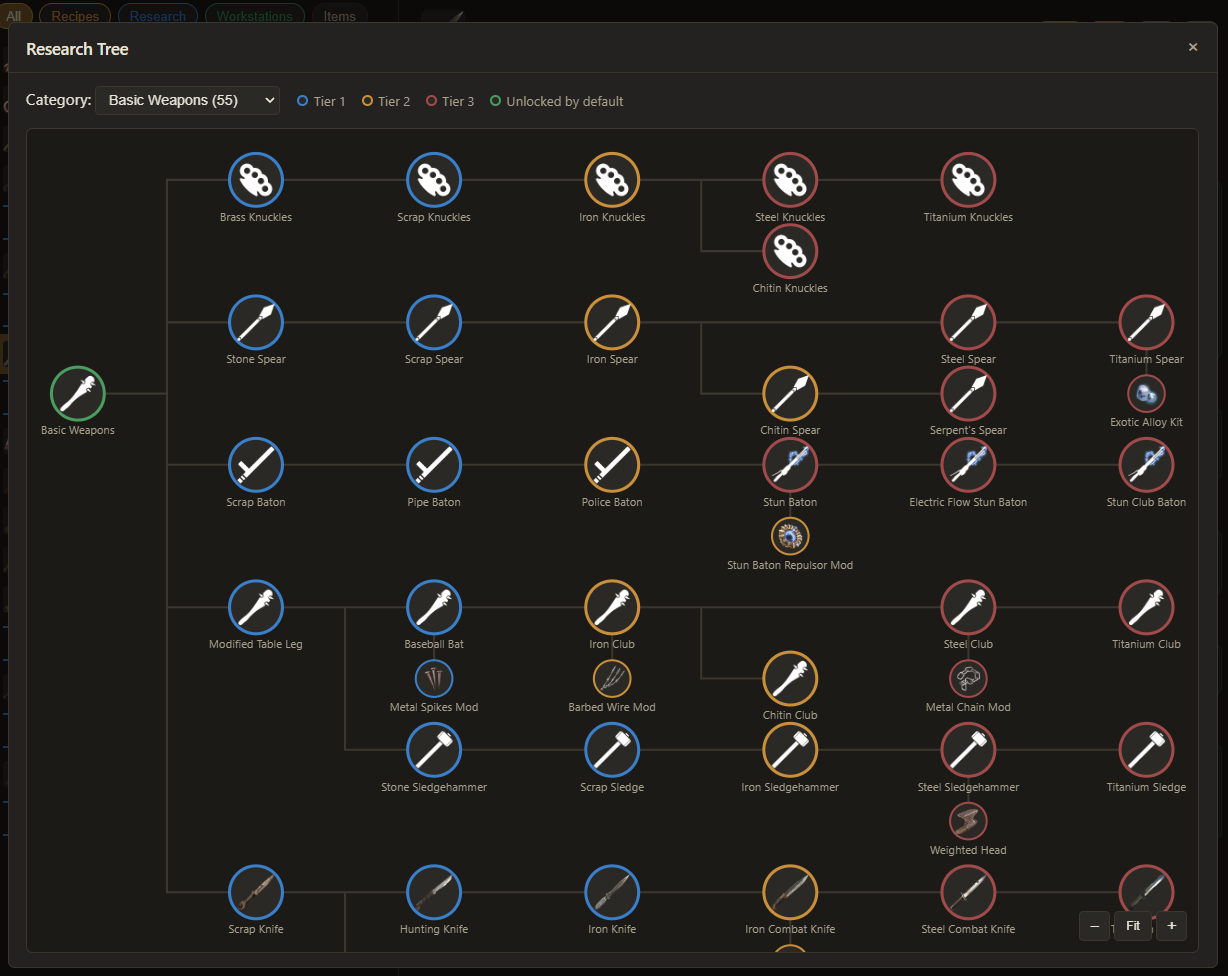
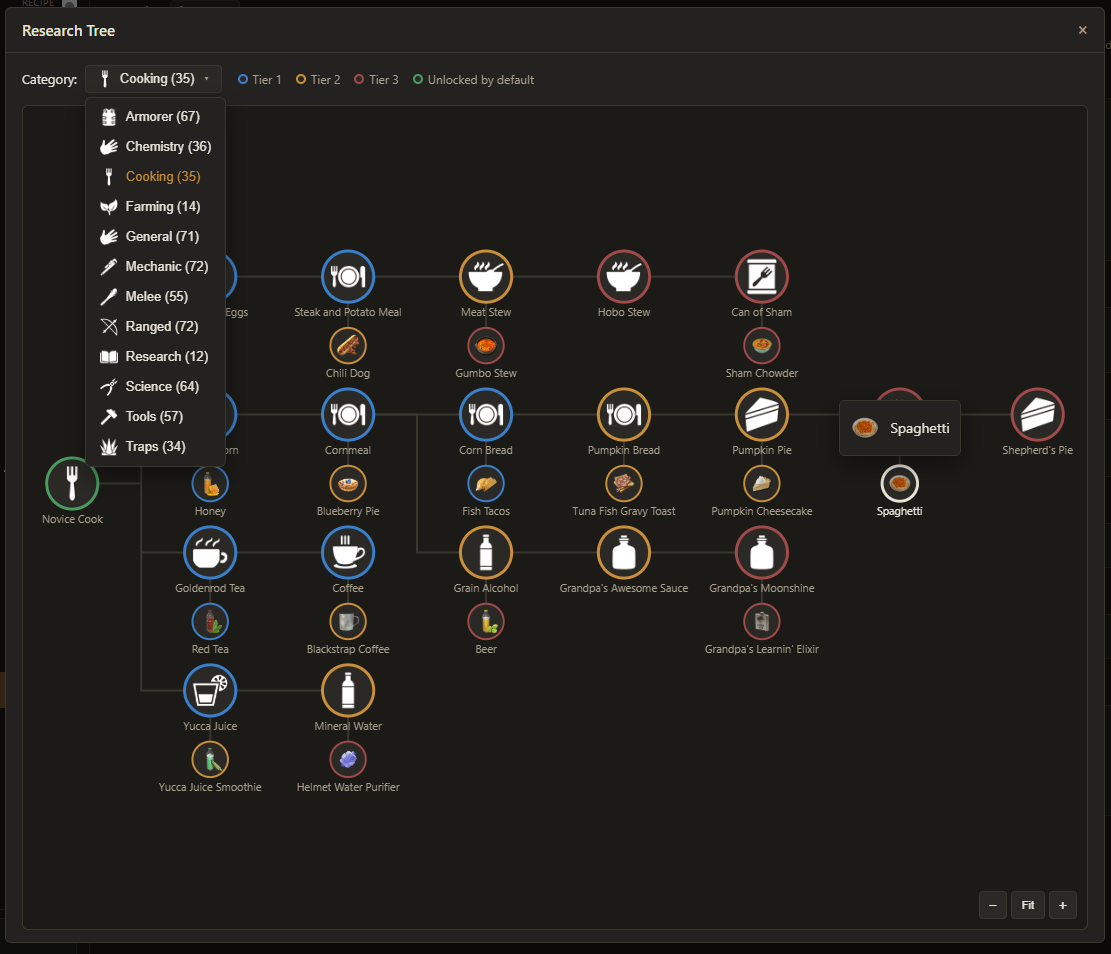
v1.1.0: Scraps Into, research Unlocks (list + hover), and resolved categories
Adds Scraps Into to every item's detail page -- the in-inventory "Scrap"
action, a mechanic distinct from the Recycler's Recycles Into just below
it, reverse-engineered from Material/Weight item properties and
materials.xml's forge_category (ported identically across both build
paths). The Research Tree's category picker is now a hand-built icon
dropdown instead of a native <select>, since a native <option> can't show
each category's own research symbol; it's also now sized to fit all of
the mod's current categories without a scrollbar.

A research page's info box now also lists every recipe it unlocks, laid
out in a second column next to its existing Category/Parent/Requires
facts -- covering both the common same-named-recipe case and any recipe
named explicitly via the node's own <unlocks> entries. The same Unlocks
list is now also available as a hover popup on every Research Tree node
(not just multi-unlock hubs), with larger icons so it reads at a glance.
Category itself now inherits from the tree's root when a node's own field
is empty (true for all but the 12 actual root nodes, so every leaf
previously just showed "-"), consistently on both the detail page and the
Research Tree picker, which now labels and sorts by this same resolved
category rather than the root node's own display name.

README rewritten to open with a bulleted feature list instead of one
dense paragraph, restructured around a "Which setup do I need?"
[…]

diff --git a/app/app.js b/app/app.js
@@ -46,6 +46,7 @@ window.ULModBuddyApp = (function () {
   const treeZoomInEl = $("#tree-zoom-in");
   const treeZoomOutEl = $("#tree-zoom-out");
   const treeZoomResetEl = $("#tree-zoom-reset");
+  const treeNodeTooltipEl = $("#tree-node-tooltip");
 
   // ---------------------------------------------------------------------
   // Meta line
@@ -452,6 +453,19 @@ window.ULModBuddyApp = (function () {
     return root;
   }
 
+  // Only each tree's root node carries its own `category` in the mod's data
+  // (e.g. "Mechanic" on Novice Mechanic) -- every descendant's own field is
+  // empty, so fall back to the root's via the same parent walk above. Shared
+  // by the research detail page and the Research Tree category picker so
+  // both show the same resolved value rather than the picker using the
+  // root's display NAME ("Novice Mechanic") while the detail page uses its
+  // CATEGORY ("Mechanic").
+  function researchCategoryOf(name) {
+    const node = data.research[name];
+    if (!node) return null;
+    return node.category || (data.research[researchRootOf(name)] || {}).category || null;
+  }
+
   const researchTreeGroups = new Map(); // root -> [research node, ...] (all tiers combined)
   for (const [name, node] of Object.entries(data.research)) {
     if (!node.pos) continue; // no coordinate to plot -- can't appear on any canvas
@@ -459,8 +473,12 @@ window.ULModBuddyApp = (function () {
     if (!researchTreeGroups.has(root)) researchTreeGroups.set(root, []);
     researchTreeGroups.get(root).push(node);
   }
+  // Sorted by the same resolved category text the picker displays (falling
+  // back to the root's own display name, same as researchCategoryOf's own
+  // fallback), not the root's display name -- otherwise the dropdown's
+  // order wouldn't match what it's showing.
   const researchCategories = [...researchTreeGroups.keys()].sort((a, b) =>
-    displayName(a).localeCompare(displayName(b))
+    (researchCategoryOf(a) || displayName(a)).localeCompare(researchCategoryOf(b) || displayName(b))
   );
 
   function tierOf(area) {
@@ -658,6 +676,7 @@ window.ULModBuddyApp = (function () {
   }
 
   function renderTreeCanvas() {
+    hideTreeNodeTooltip();
     treeCanvasInnerEl.innerHTML = renderResearchTreeSvg(treeState.root);
     const svg = treeCanvasInnerEl.querySelector("svg");
     treeNaturalWidth = svg ? parseFloat(svg.getAttribute("width")) || 0 : 0;
@@ -694,7 +713,7 @@ window.ULModBuddyApp = (function () {
   function selectTreeCategory(root) {
     treeState.root = root;
     treeCategoryBtnIconEl.innerHTML = treeCategoryIconHtml(root);
-    treeCategoryBtnLabelEl.textContent = `${displayName(root)} (${researchTreeGroups.get(root).length})`;
+    treeCategoryBtnLabelEl.textContent = `${researchCategoryOf(root) || displayName(root)} (${researchTreeGroups.get(root).length})`;
     for (const opt of treeCategoryMenuEl.children) {
       opt.setAttribute("aria-selected", String(opt.dataset.root === root));
     }
@@ -704,6 +723,7 @@ window.ULModBuddyApp = (function () {
   function hideTreeModal() {
     treeModalEl.hidden = true;
     closeTreeCategoryMenu();
+    hideTreeNodeTooltip();
   }
 
   function openTreeModal() {
@@ -713,7 +733,7 @@ window.ULModBuddyApp = (function () {
           (root) =>
             `<button type="button" class="icon-select-option" role="option" data-root="${root}">` +
             `${treeCategoryIconHtml(root)}` +
-            `<span>${displayName(root)} (${researchTreeGroups.get(root).length})</span></button>`
+            `<span>${researchCategoryOf(root) || displayName(root)} (${researchTreeGroups.get(root).length})</span></button>`
         )
         .join("");
       for (const opt of treeCategoryMenuEl.children) {
@@ -801,6 +821,7 @@ window.ULModBuddyApp = (function () {
     // buttons, since the browser would then fire their "click" at
     // tree-canvas-wrap instead of the button itself.
     if (e.target.closest(".tree-zoom-controls")) return;
+    hideTreeNodeTooltip();
     treePointerDownNode = e.target.closest(".tree-node");
     treeDragging = true;
     treeDragMoved = false;
@@ -835,6 +856,56 @@ window.ULModBuddyApp = (function () {
   treeCanvasWrapEl.addEventListener("pointercancel", () => {
     treeDragging = false;
     treeCanvasWrapEl.classList.remove("tree-dragging");
+  });
+
+  // Hover popup listing what a node unlocks -- every node gets one (not
+  // just multi-unlock hubs), reusing the same researchUnlockedRecipeNames()
+  // the detail page's own Unlocks list is built from, so both agree. A
+  // node with nothing to show (the rare pure-hub case) just never displays
+  // one rather than popping up an empty box.
+  function hideTreeNodeTooltip() {
+    treeNodeTooltipEl.hidden = true;
+  }
+
+  function showTreeNodeTooltip(nodeEl) {
+    const node = data.research[nodeEl.dataset.name];
+    const unlockedRecipes = node ? researchUnlockedRecipeNames(node) : [];
+    if (!unlockedRecipes.length) {
+      hideTreeNodeTooltip();
+      return;
+    }
+    // Larger than the usual .ing-icon rows this same markup pattern uses
+    // elsewhere (e.g. Unlocks on the research detail page) -- a hover
+    // popup is glanced at for a moment, not read closely, so the icons
+    // need to read at a glance too.
+    treeNodeTooltipEl.innerHTML = unlockedRecipes
+      .map((n) => `<div class="tree-node-tooltip-item">${reportRowIcon(n, "tree-node-tooltip-icon")}<span>${displayName(n)}</span></div>`)
+      .join("");
+    treeNodeTooltipEl.hidden = false;
+    // Positioned in viewport coordinates (position: fixed), centered above
+    // the node and flipped below when there's no room, clamped to the
+    // canvas wrap's own bounds -- getBoundingClientRect() already accounts
+    // for the pan/zoom transform on tree-canvas-inner, so no separate
+    // unproject-from-SVG-space math is needed here.
+    const nodeRect = nodeEl.getBoundingClientRect();
+    const wrapRect = treeCanvasWrapEl.getBoundingClientRect();
+    const ttRect = treeNodeTooltipEl.getBoundingClientRect();
+    let left = nodeRect.left + nodeRect.width / 2 - ttRect.width / 2;
+    let top = nodeRect.top - ttRect.height - 10;
+    if (top < wrapRect.top) top = nodeRect.bottom + 10;
+    left = Math.max(wrapRect.left + 4, Math.min(left, wrapRect.right - ttRect.width - 4));
+    treeNodeTooltipEl.style.left = `${left}px`;
+    treeNodeTooltipEl.style.top = `${top}px`;
+  }
+
+  treeCanvasWrapEl.addEventListener("mouseover", (e) => {
+    if (treeDragging) return;
+    const nodeEl = e.target.closest(".tree-node");
+    if (nodeEl) showTreeNodeTooltip(nodeEl);
+  });
+  treeCanvasWrapEl.addEventListener("mouseout", (e) => {
+    const nodeEl = e.target.closest(".tree-node");
+    if (nodeEl && !nodeEl.contains(e.relatedTarget)) hideTreeNodeTooltip();
   });
 
   document.addEventListener("keydown", (e) => {
@@ -1059,6 +1130,24 @@ window.ULModBuddyApp = (function () {
     if (wrap) wrap.innerHTML = vehicleCompareTableHtml();
   };
 
+  // What a research node unlocks, in reverse of how reportEngine's own
+  // findResearchFor() resolves a RECIPE's unlock.via: most nodes (457 of
+  // 589) have no <unlocks> children at all and unlock a same-named recipe
+  // purely by that name match, while the rest name it explicitly via
+  // <unlocks>. Either way, the real signal is "does a recipe with this name
+  // exist" -- an <unlocks> child just as often names a workstation tier or a
+  // plain resource/book with no recipe of its own (data.recipesByName won't
+  // have those), which is why no separate check of the child's own
+  // craftable/display_only flags is needed here.
+  function researchUnlockedRecipeNames(node) {
+    const names = new Set();
+    if (data.recipesByName[node.name]) names.add(node.name);
+    for (const u of node.unlocks || []) {
+      if (u.name && data.recipesByName[u.name]) names.add(u.name);
+    }
+    return [...names];
+  }
+
   // The item's own facts, shown at the top of its Total Requirements page:
   // browsing an item and sizing up its cost are the same task, not two
   // pages linked by a button. Doesn't repeat the recipe's own Ingredients
@@ -1073,11 +1162,23 @@ window.ULModBuddyApp = (function () {
     // isn't worth the redundancy.
     if (kind === "research") {
       const node = data.research[name];
-      html += `<div class="variant-card">`;
-      html += `<div class="kv-row"><span class="k">Category</span><span>${node.category || "-"}</span></div>`;
+      const unlockedRecipes = researchUnlockedRecipeNames(node);
+      const category = researchCategoryOf(name);
+      html += `<div class="variant-card variant-card-columns">`;
+      html += `<div class="variant-card-col">`;
+      html += `<div class="kv-row"><span class="k">Category</span><span>${category || "-"}</span></div>`;
       html += `<div class="kv-row"><span class="k">Parent</span><span>${node.parent ? displayName(node.parent) : "(root)"}</span></div>`;
       html += `<div class="kv-row"><span class="k">Unlocked by default</span><span>${node.unlocked ? "yes" : "no"}</span></div>`;
       if (node.requires) html += `<div class="kv-row"><span class="k">Requires</span><span>${displayName(node.requires)}</span></div>`;
+      html += `</div>`;
+      html += `<div class="variant-card-col">`;
+      html += `<div class="kv-row"><span class="k">Unlocks</span><span>${unlockedRecipes.length} recipe${unlockedRecipes.length === 1 ? "" : "s"}</span></div>`;
+      if (unlockedRecipes.length) {
+        html += `<ul class="ingredient-list">`;
+        html += unlockedRecipes.map((n) => `<li>${reportRowIcon(n)}${jumpSpan(n, displayName(n))}</li>`).join("");
+        html += `</ul>`;
+      }
+      html += `</div>`;
       html += `</div>`;
     } else if (kind === "workstation") {
       const info = tierInfo[name];

diff --git a/app/styles.css b/app/styles.css
@@ -411,6 +411,26 @@ img.icon-ring-workstation {
   min-width: 100px;
 }
 
+/* A research node's own facts (Category/Parent/...) next to what it
+   unlocks -- two independent lists side by side rather than one long
+   stack, since neither reads as a continuation of the other. Wraps to a
+   single column on a narrow viewport. */
+.variant-card-columns {
+  display: flex;
+  flex-wrap: wrap;
+  gap: 20px;
+}
+
+.variant-card-col {
+  flex: 1 1 200px;
+  min-width: 0;
+}
+
+.variant-card-col:not(:first-child) {
+  border-left: 1px solid var(--border);
+  padding-left: 20px;
+}
+
 .vehicle-compare-wrap {
   overflow-x: auto;
   margin-bottom: 14px;
@@ -837,7 +857,10 @@ img.icon-ring-workstation {
   left: 0;
   z-index: 20;
   min-width: 100%;
-  max-height: 320px;
+  /* Tall enough for all 12 of the mod's current categories (~368px) with
+     room to spare -- overflow-y stays on as a fallback if a future mod
+     update adds more, rather than hard-capping the list at today's count. */
+  max-height: 400px;
   overflow-y: auto;
   background: var(--panel);
   border: 1px solid var(--border);
@@ -984,6 +1007,36 @@ img.icon-ring-workstation {
 
 .tree-node {
   cursor: pointer;
+}
+
+/* Hover popup listing what a node unlocks -- position: fixed and placed
+   entirely via JS (showTreeNodeTooltip), since it needs to track a node's
+   real on-screen position under the canvas's own pan/zoom transform. */
+.tree-node-tooltip {
+  position: fixed;
+  z-index: 30;
+  max-width: 260px;
+  background: var(--panel);
+  border: 1px solid var(--border);
+  border-radius: 6px;
+  box-shadow: 0 8px 24px rgba(0, 0, 0, 0.45);
+  padding: 8px 10px;
+  pointer-events: none;
+}
+
+.tree-node-tooltip-item {
+  display: flex;
+  align-items: center;
+  gap: 10px;
+  padding: 4px 0;
+  font-size: 14px;
+}
+
+/* Bigger than the usual 18px .ing-icon -- a hover popup is meant to read
+   at a glance. */
+.tree-node-tooltip-icon {
+  width: 30px;
+  height: 30px;
 }
 
 .tree-node circle {

diff --git a/app/index.html b/app/index.html
@@ -12,7 +12,7 @@
        immediately on any page load regardless of cache state, so "which
        code am I actually running" is always answerable without opening
        devtools. Bump this by hand alongside each CHANGELOG.md/tag. -->
-  <span id="app-version" class="app-version" title="UL Mod Buddy build version (not the mod's own version, shown below)">v1.0.4</span>
+  <span id="app-version" class="app-version" title="UL Mod Buddy build version (not the mod's own version, shown below)">v1.1.0</span>
   <div id="meta-line" class="meta-line"></div>
   <button id="tree-btn" class="rebuild-btn" type="button" hidden
           title="Browse the research tree by category">Research Tree</button>
@@ -87,6 +87,7 @@
           <button id="tree-zoom-reset" type="button" title="Reset view">Fit</button>
           <button id="tree-zoom-in" type="button" title="Zoom in" aria-label="Zoom in">&plus;</button>
         </div>
+        <div id="tree-node-tooltip" class="tree-node-tooltip" hidden></div>
       </div>
     </div>
   </div>

diff --git a/CHANGELOG.md b/CHANGELOG.md
@@ -3,7 +3,7 @@
 All notable changes to UL Mod Buddy are documented here. Format loosely
 follows [Keep a Changelog](https://keepachangelog.com/).
 
-## [Unreleased]
+## [1.1.0] - 2026-09-15
 
 ### Added
 
@@ -14,17 +14,41 @@ follows [Keep a Changelog](https://keepachangelog.com/).
   `Material`+`Weight` item properties and `materials.xml`'s
   `forge_category`, then verified in-game (count is fixed at
   `ceil(Weight / 10)`, independent of an item's quality/condition).
+- **A research page's info box now lists every recipe it unlocks**, next
+  to its existing Category/Parent/Requires facts -- covering both a
+  same-named recipe (the common case) and any recipe named explicitly via
+  the research node's own `<unlocks>` entries.
+- **Hovering a Research Tree node pops up what it unlocks**, icons shown
+  larger than usual so they read at a glance -- every node gets one, not
+  just multi-unlock hubs, reusing the same resolved Unlocks list as the
+  research detail page.
 
 ### Changed
 
 - **Research Tree's category picker is now a hand-built icon dropdown**
   instead of a native `<select>`, so each category shows its own research
   symbol next to its name -- a native `<option>` can't render an icon in
-  any browser.
-- **README restructured** around a "Which setup do I need?" quick-picker
+  any browser. Tall enough to show all of the mod's current categories at
+  once, no scrollbar needed.
+- **A research node's Category now inherits from its tree's root** when
+  the node's own field is empty, which is true for all but the 12 actual
+  root nodes -- previously every non-root node just showed "-". Shown
+  consistently in both the research detail page's info box (now laid out
+  in two columns, facts on the left and Unlocks on the right) and the
+  Research Tree's category picker, which now labels and sorts by this
+  same resolved category rather than the root node's own display name.
+- **README restructured**: opens with a bulleted feature list instead of
+  one dense paragraph (the crafting cost tree is one feature among several
+  now, not the whole pitch), adds a "Which setup do I need?" quick-picker
   up top (zero-install vs. Python fallback, by browser) and a consolidated
-  "Privacy & security" section, rather than spreading that reasoning
-  across several setup steps.
+  "Privacy & security" section rather than spreading that reasoning across
+  several setup steps, and drops the "Undead Legacy team" affiliation
+  disclaimer -- Subquake *is* the Undead Legacy team, so it read as
+  disclaiming an affiliation with itself.
+- **GUIDE.md's Research Tree screenshot retaken** to show the current UI
+  (the icon dropdown, a resolved category, and a hover popup) instead of
+  the plain `<select>` it predated; the surrounding text now covers
+  hovering a node too.
 
 ## [1.0.4] - 2026-09-14
 

diff --git a/README.md b/README.md
@@ -4,14 +4,27 @@ New here? See the **[User Guide](GUIDE.md)** for a walkthrough of what it
 can do, with screenshots.
 
 A browsable recipe/research/workstation reference for the [Undead Legacy](http://ul.subquake.com)
-mod for *7 Days to Die*. Search for any craftable item, research topic, or
-workstation, and see its full "Total Requirements Report" -- a cascading,
-click-to-expand cost tree covering crafting ingredients, research
-prerequisites, workstations, tools, and where to find things via harvesting
-or recycling.
+mod for *7 Days to Die*, built directly from your own install:
+
+- **Full crafting cost breakdown** -- search any item, research topic, or
+  workstation and expand a cascading, click-to-expand cost tree all the way
+  down to raw materials: ingredients, research prerequisites, workstations,
+  tools, and every way to acquire each one (Craft / Loot / Buy / Harvest /
+  Recycle / Quest).
+- **Scraps Into** and **Recycles Into** -- what breaking an item down gives
+  back, in your inventory or at a Recycler.
+- **Harvest** and **Recycle Sources** -- every source for a given item,
+  ranked by expected yield.
+- **Research Tree** -- a visual map of each research category; hover a
+  node to see what it unlocks.
+- **Vehicles** -- per-vehicle stats, tiered repair costs, and a sortable
+  comparison table across all of them.
+- **Build warnings** -- gaps or oddities in the mod's own data (typos,
+  missing localization, unresolved references) surfaced in-app, not
+  buried in a terminal log.
 
 This is an unofficial fan-made tool. It is not affiliated with The Fun
-Pimps, Subquake, or the Undead Legacy team.
+Pimps or Subquake.
 
 ## Which setup do I need?
 

diff --git a/GUIDE.md b/GUIDE.md
@@ -96,7 +96,7 @@ you need to conduct that specific research (see the legend at the top);
 it's not related to the tier of whatever workstation the unlocked recipe
 itself needs to craft with.
 
-![Research Tree for the "Basic Weapons" category, showing tier-colored ring icons and zoom controls](docs/screenshots/research-tree.png)
+![Research Tree for the "Cooking" category, showing tier-colored ring icons, the category dropdown, and a hover popup listing what Spaghetti unlocks](docs/screenshots/research-tree.png)
 
 Getting around a tree bigger than the window:
 
@@ -106,6 +106,9 @@ Getting around a tree bigger than the window:
 - The **−** / **+** buttons in the corner zoom in fixed steps, centered
   on the middle of the view; **Fit** snaps back to the default
   zoomed-out overview of the whole category.
+- **Hovering a node** pops up what it unlocks -- Spaghetti's own node,
+  shown above, unlocks just the one recipe; some research nodes unlock
+  several at once.
 - **Clicking a node** jumps straight to that item/research's own detail
   page, same as clicking it in the search results.
 
